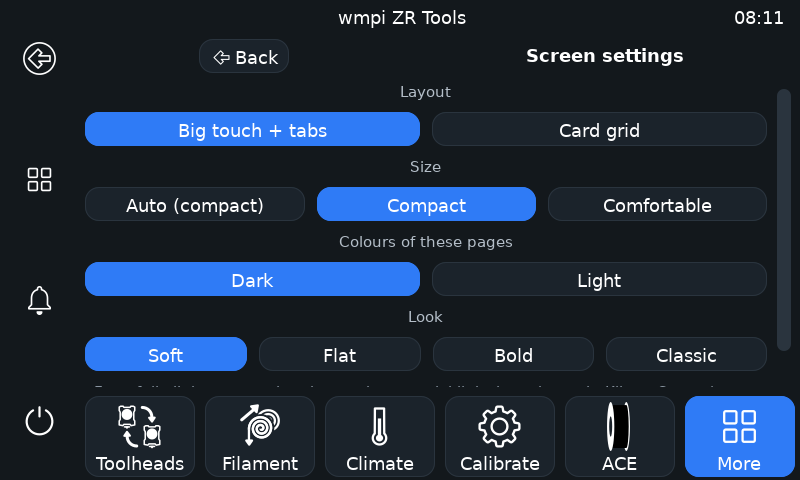
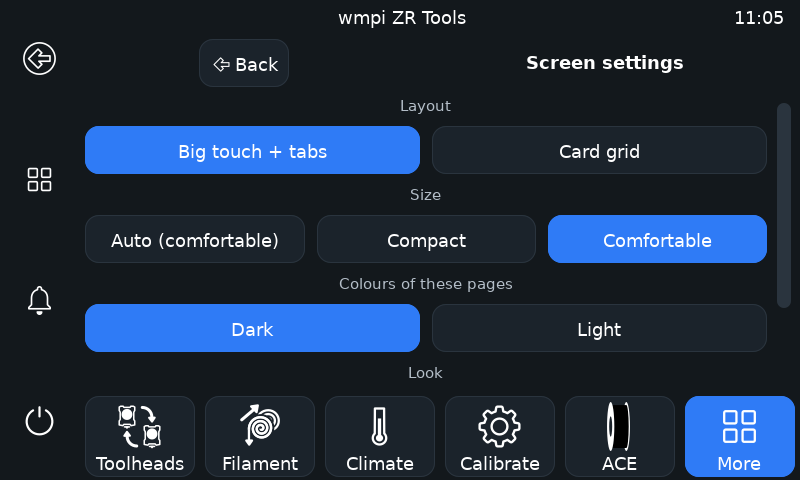
Design A: bigger colour preview and dots, colour above material, bigger Edit filament button, Comfortable by default, new screenshots

diff --git a/zr_tools_design_a/zr_tools.py b/zr_tools_design_a/zr_tools.py
@@ -691,7 +691,7 @@ class Panel(ViewsMixin, ScreenPanel):
             btn.connect("clicked", lambda _w, f=cb: f(i))
             actions.attach(btn, n % 3, n // 3, 1, 1)
         edit_btn = self._button("fine-tune", "Edit filament", "color3", self.show_tool_edit, i)
-        edit_btn.set_size_request(-1, self.sz["btn_h"])
+        edit_btn.set_size_request(-1, int(self.sz["btn_h"] * 1.7))
         actions.attach(edit_btn, 0, 2, 3, 1)
         page.pack_start(actions, True, True, 0)
 
@@ -712,27 +712,12 @@ class Panel(ViewsMixin, ScreenPanel):
         page.set_margin_end(10)
 
         prev_row = Gtk.Box(orientation=Gtk.Orientation.HORIZONTAL, spacing=12)
-        self.w["e_swatch"] = self._swatch(56, 56)
+        self.w["e_swatch"] = self._swatch(84, 84)
         prev_row.pack_start(self.w["e_swatch"], False, False, 0)
         self.w["e_desc"] = self._label()
         self.w["e_desc"].set_halign(Gtk.Align.START)
         prev_row.pack_start(self.w["e_desc"], True, True, 0)
         page.pack_start(prev_row, False, False, 0)
-
-        page.pack_start(self._section("Material"), False, False, 0)
-        mats = Gtk.Grid()
-        mats.set_row_spacing(6)
-        mats.set_column_spacing(6)
-        mats.set_column_homogeneous(True)
-        self.w["chips"] = {}
-        for n, (name, _t) in enumerate(MATERIALS):
-            chip = Gtk.Button(label=name)
-            chip.get_style_context().add_class("zr_chip")
-            chip.set_size_request(-1, self.sz["btn_h"] - 4)
-            chip.connect("clicked", lambda _w, idx=n: self._pick_material(idx))
-            mats.attach(chip, n % 4, n // 4, 1, 1)
-            self.w["chips"][n] = chip
-        page.pack_start(mats, False, False, 0)
 
         page.pack_start(self._section("Colour"), False, False, 0)
         dots = Gtk.Grid()
@@ -742,7 +727,7 @@ class Panel(ViewsMixin, ScreenPanel):
         self.w["dots"] = {}
         for n, (name, col) in enumerate(COLOR_PRESETS):
             dot = Gtk.EventBox()
-            dot.set_size_request(56, 56)
+            dot.set_size_request(64, 64)
             dot.set_halign(Gtk.Align.CENTER)
             dot.get_style_context().add_class("zr_dot")
             self._set_swatch(dot, col)
@@ -771,6 +756,21 @@ class Panel(ViewsMixin, ScreenPanel):
             self.w["sliders"].append(sc)
             rgb_box.pack_start(srow, False, False, 0)
         page.pack_start(rgb_box, False, False, 0)
+
+        page.pack_start(self._section("Material"), False, False, 0)
+        mats = Gtk.Grid()
+        mats.set_row_spacing(6)
+        mats.set_column_spacing(6)
+        mats.set_column_homogeneous(True)
+        self.w["chips"] = {}
+        for n, (name, _t) in enumerate(MATERIALS):
+            chip = Gtk.Button(label=name)
+            chip.get_style_context().add_class("zr_chip")
+            chip.set_size_request(-1, self.sz["btn_h"] - 4)
+            chip.connect("clicked", lambda _w, idx=n: self._pick_material(idx))
+            mats.attach(chip, n % 4, n // 4, 1, 1)
+            self.w["chips"][n] = chip
+        page.pack_start(mats, False, False, 0)
 
         page.pack_start(self._section("Nozzle temperature"), False, False, 0)
         page.pack_start(self._stepper_row("temp", "Temp", -5, 5), False, False, 0)
@@ -948,7 +948,7 @@ class Panel(ViewsMixin, ScreenPanel):
             grid.attach(self._label(f"Slicer T{t}  ->"), 0, t, 1, 1)
             for h in range(NTOOLS):
                 b = Gtk.Button(label=f"Head {h + 1}")
-                b.set_size_request(-1, self.sz["btn_h"])
+                b.set_size_request(-1, min(self.sz["btn_h"], 42))
                 b.connect("clicked", lambda _w, tt=t, hh=h: self._map(tt, hh))
                 grid.attach(b, 1 + h, t, 1, 1)
                 self.w["map_btns"][(t, h)] = b
@@ -958,7 +958,7 @@ class Panel(ViewsMixin, ScreenPanel):
             self.w["map_sw"][t] = sw
         self.root.pack_start(grid, False, False, 0)
         reset = self._button("refresh", "Reset 1:1", "color3", self._map_reset)
-        reset.set_size_request(-1, self.sz["btn_h"])
+        reset.set_size_request(-1, min(self.sz["btn_h"], 42))
         self.root.pack_start(reset, False, False, 0)
         self.root.show_all()
         self._refresh_view()

diff --git a/zr_tools_design_a/zr_logic.py b/zr_tools_design_a/zr_logic.py
@@ -5,7 +5,7 @@ import configparser
 import os
 
 SETTINGS_FILE = os.path.expanduser("~/printer_data/config/zr_screen.conf")
-DEFAULTS = {"layout": "tabs", "density": "auto", "theme": "dark", "style": "soft"}
+DEFAULTS = {"layout": "tabs", "density": "comfortable", "theme": "dark", "style": "soft"}
 LAYOUTS = ("tabs", "grid")          # C (big touch, tabs) and A (card grid)
 DENSITIES = ("auto", "compact", "comfortable")
 THEMES = ("dark", "light")
@@ -356,7 +356,7 @@ def build_css(theme, style, density="compact"):
     .zr_card { border: 2px solid %(edge)s; border-radius: %(r)dpx; background-image: none; background-color: %(card)s; color: %(text)s; }
     .zr_active { border: 2px solid %(acc)s; background-color: %(card_on)s; }
     .zr_swatch { border: 2px solid %(dot_edge)s; border-radius: %(sr)dpx; }
-    .zr_dot { border: 2px solid %(edge)s; border-radius: 28px; }
+    .zr_dot { border: 2px solid %(edge)s; border-radius: 32px; }
     .zr_dot_on { border: 5px solid %(acc)s; }
     .zr_chip { border-radius: %(r)dpx; background-image: none; background-color: %(card)s; color: %(text)s; border: 2px solid %(edge)s; }
     .zr_chip_on { background-color: %(acc)s; color: #ffffff; border-color: %(acc)s; }

diff --git a/zr_tools_design_a/zr_views.py b/zr_tools_design_a/zr_views.py
@@ -147,7 +147,7 @@ class ViewsMixin:
 
         act = [("load", "Load from ACE", self._ace_load), ("retract", "Unload to ACE", self._ace_unload),
                ("fan", "Feed assist", self._ace_assist), ("stop", "Stop motor", self._ace_stop)]
-        body.pack_start(self._tile_grid(act, cols=2 if self.density == "compact" else 4), False, False, 0)
+        body.pack_start(self._tile_grid(act, cols=2 if (self.density == "compact" or getattr(self._screen, "width", 0) <= 900) else 4), False, False, 0)
 
         mv = [("arrow-down", "Feed", self._ace_feed), ("arrow-up", "Retract", self._ace_retract)]
         row = Gtk.Box(orientation=Gtk.Orientation.HORIZONTAL, spacing=6)

diff --git a/zr_tools_design_a/README.md b/zr_tools_design_a/README.md
@@ -7,6 +7,8 @@ with a spool card on the left and a 3x3 grid of big actions on the right.
 **This is not installed by any script.** `install_zr_tools.sh` and `scripts/screen_board.sh` still use the
 files in `zr_tools/`. This folder only keeps the work for a future update.
 
+The default size is now Comfortable (big touch targets), also on the 800x480 screen. The Edit filament page shows the colour first, then the material; the colour preview and dots are larger.
+
 Tested on the WonderMaker screen board (800x480) with a simulated Klipper (the screenshots below).
 Not yet tested on hardware with a real printer, on a 7 inch (1024x600) screen, or with the other
 Screen settings options (card grid, light theme, flat/bold/classic looks).
@@ -19,9 +21,9 @@ Back up the old files first.
 |---|---|
 | ![Toolheads](img/toolheads.png) | ![Toolhead detail](img/tool-detail.png) |
 | ![Edit filament](img/edit-filament.png) | ![Colour picker](img/colour-picker.png) |
-| ![Custom colour](img/custom-colour.png) | ![Climate](img/climate.png) |
-| ![Calibrate](img/calibrate.png) | ![ACE Pro](img/ace.png) |
-| ![More](img/more.png) | ![Tool mapping](img/mapping.png) |
-| ![Screen settings](img/screen-settings.png) | ![System](img/system.png) |
+| ![Climate](img/climate.png) | ![Calibrate](img/calibrate.png) |
+| ![ACE Pro](img/ace.png) | ![More](img/more.png) |
+| ![Tool mapping](img/mapping.png) | ![Screen settings](img/screen-settings.png) |
+| ![System](img/system.png) | |
 
 The ACE Pro page shows "no data" because the simulated Klipper had no ACE state.
